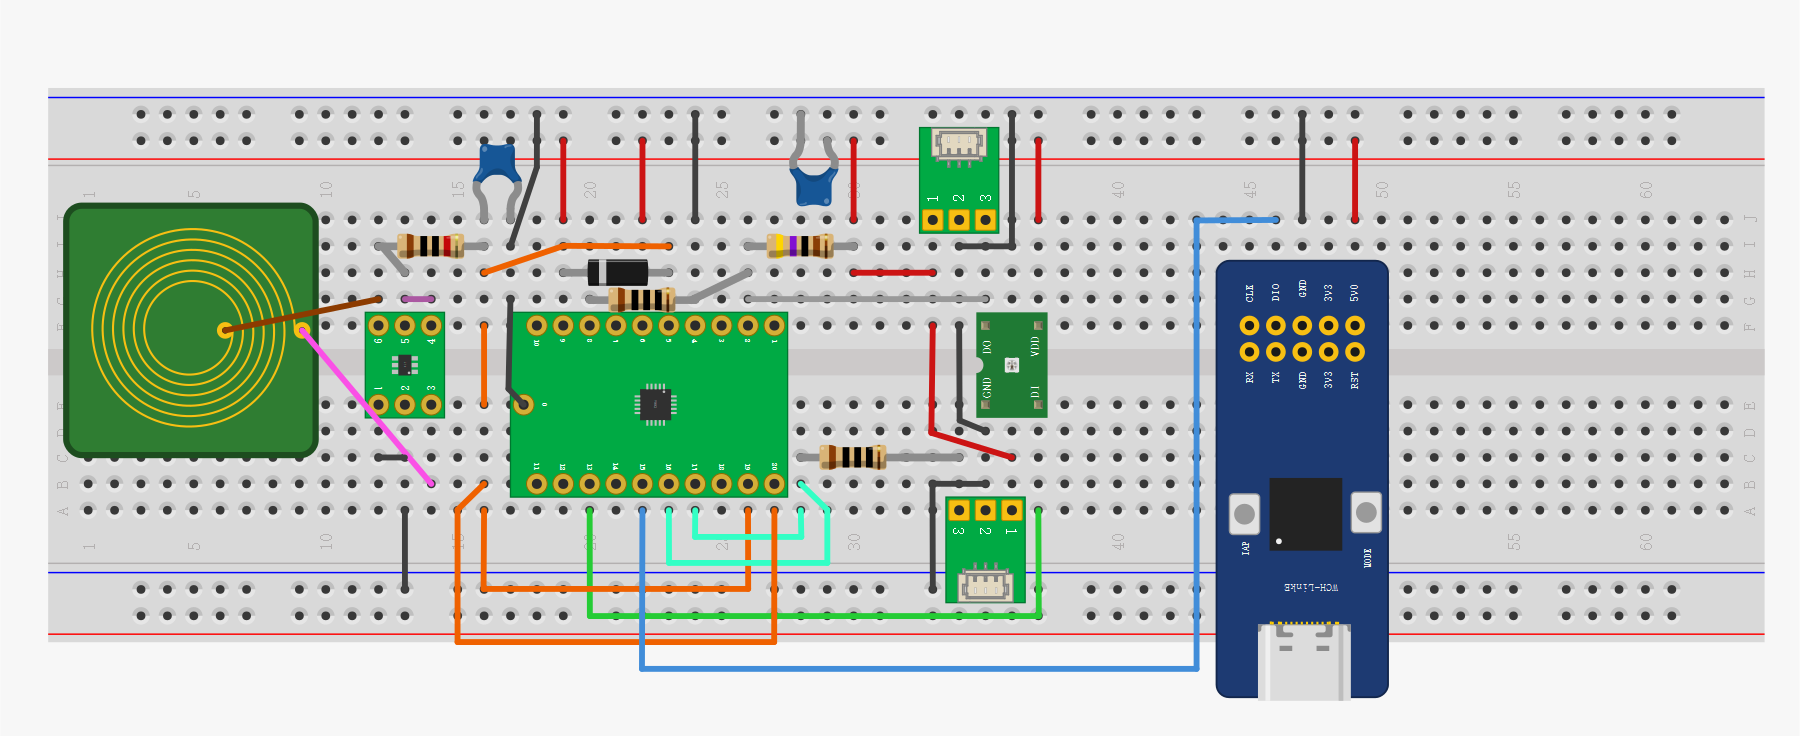
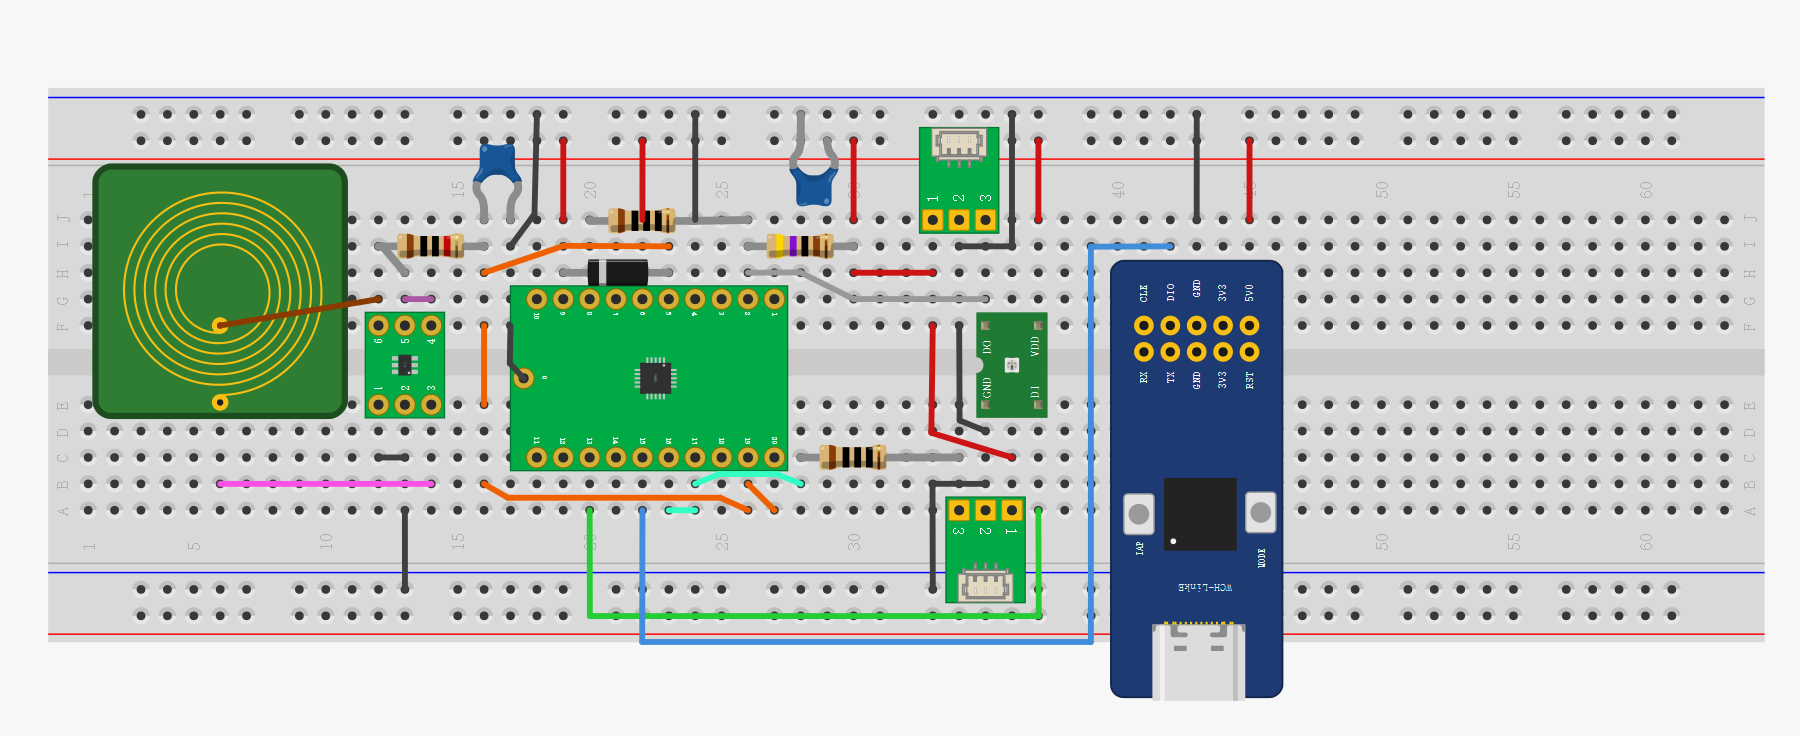
烧录接线图 v95 交付件 = 用户手改版（线圈转 90° 插 pin6E/pin6F）＋清掉两条旧插接
- 交付件 hardware/pixel/pixel-flash-v95.fzz 换成用户手改版的内容
  （草稿 pixel-flash-v95_byHand.fzz 按本仓惯例 *.byHand 不入库，内容就是交付件）：
  线圈转 90° 跨板中缝插在 pin6E / pin6F（E 属 bus6A-E、F 属 bus6F-J，两 bus 不同 ⇒ 不短接），
  内圈焊盘再一根直线接到 pin12G；C1/C2/R1/U1 等跟着重摆，删 9 根 / 加 5 根导线。
- 清理：L1 的 schematicView 还留着 v94 的 pin1E / pin8E 两条旧插接（面包板侧各有一条反向记录），
  而线圈早已搬到第 6 列 ⇒ 删掉这 4 条（<connect> 792 → 788），
  圈线板底下不再压着别人的孔（只剩它自己的 pin6E / pin6F）。
- pixel-flash-v95_bb.svg / .png 由交付件重出；README §67 改写为交付说明。

判据（交付件）：bb_precheck ✓ 允许布线（用孔 57，⑦ 1 处接线 0.000 mm）；
bb_probe ✓ 与项目数据一致（声明 262 条、11/12 张网连通、EXPECT 40/40 只脚）；
导线 47 段；线圈两针与孔 7.62 mm 差 0.22 mm（件本身 7.40 mm，已认可）。

diff --git a/hardware/pixel/README.md b/hardware/pixel/README.md
@@ -8532,7 +8532,7 @@ py -3.13 -X utf8 _work\make_flash.py pixel-pcb-v94.fzz pixel-flash-v94.fzz --app
 py -3.13 -X utf8 F:\git\fritzing-parts-langhua\tools\bb_precheck.py pixel-flash-v94.fzz
 ```
 
-## 六十七、`NFC-Coil` 改件（面包板 = PCB）⇒ **`pixel-flash-v95.fzz`** ✓（2026-11-06 ✓）
+## 六十七、`NFC-Coil` 改件（面包板 = PCB）⇒ **`pixel-flash-v95.fzz`（内容 = 用户手改版）** ✓（2026-11-06 ✓）
 
 ### 为什么要升一版
 
@@ -8541,46 +8541,51 @@ py -3.13 -X utf8 F:\git\fritzing-parts-langhua\tools\bb_precheck.py pixel-flash-
 间距 **7.40 mm**，OD 1.6 / 孔 0.6）。而 v94 里线圈是**插在面包板上**的（老件两针
 **17.78 mm = 7 格**，插在 `pin1E` / `pin8E`）。`.fzz` 里的元件是**随包内嵌**的 ⇒ 必须出一版新图。
 
-### 改了什么
+### 分两步：我出的 v95 → 用户手改版（定稿）
 
-| 项 | v94 | v95 |
+| 步 | 文件 | 线圈怎么接 |
 |---|---|---|
-| 内嵌元件 | 老 `NFC-Coil` | 新 `NFC-Coil`（面包板 ＋ icon）|
-| 线圈与面包板 | 插 `pin1E` / `pin8E` | **不插孔**：两根导线直接接到它的两个焊盘 |
-| `Wire90015711`（`COIL_A`）| 插 `pin1C`，再经 `Wire90015712` / `Wire90015713` 两段折线到 `pin12G` | 改接线圈**内圈焊盘**，**一条直线**直连 `pin12G`（原来那两段折线删掉也合并进来）|
-| `Wire90015714`（`COIL_B`）| 插 `pin8B` | 改接线圈**外圈焊盘** → `pin14B`（一条直线）|
-| 线圈实例位置 | `(6.98, 60.4488)` | `(6.98, 54.60)`（上移 1.65 mm，让 `pin9C` 的结点避开板边）|
+| ① 我出 | `pixel-flash-v95.fzz`（初版）| 线圈**不插孔**，两根线从焊盘接出（内圈→`pin12G`、外圈→`pin14B`，各一条直线）|
+| ② 用户手改 | `pixel-flash-v95_byHand.fzz`（草稿；`*_byHand.fzz` 在 `.gitignore` 里，不入库）| 线圈**转 90° 插在 `pin6E` / `pin6F`**（跨板中缝），内圈焊盘再一根直线接到 `pin12G` |
+| ③ **交付** | **`pixel-flash-v95.fzz`**（= ② 的内容，只把内部 `.fz` 改回 `pixel-flash-v95.fz`）| 同 ② |
 
-★ **线型** ✓（用户 2026-11-06）：线圈两根线都是**一根直线**，不拐弯 ✗ ——
-`COIL_A`：内圈焊盘 `(64.74, 100.66)` → `pin12G` `(117, 90)`；
-`COIL_B`：外圈焊盘 `(90.96, 100.66)` → `pin14B` `(135, 153)`。
-（`COIL_A` 原来是 3 段串起来、中间 2 个 90° 拐弯 ✗；现在并成 1 根 ⇒ 直线上只有 50 段导线）
+★ ② 为什么能插 ✓：`pin6E` 属 `bus6A-E`、`pin6F` 属 `bus6F-J` —— **两条 bus 不同** ⇒ 线圈两端不会短接 ✓；
+两孔相距 **7.62 mm**、件自身两针 **7.40 mm** ⇒ **必有一针偏 0.22 mm**（`bb_precheck` 的 0.60 mm 口径 ✓ 过；
+`render_bb` 的 0.10 mm 自检会报“悬空”，那是它的严格口径 ✗ 不是错）。
 
-★ **为什么不能继续插** ✗：新件两针在板子的**竖直中线**，24 mm 的板从针线上下各铺 12 mm；
-而一条 5 孔 bus 只有 **10.16 mm** 高（实测 `pin1E` → `bus1A-E`、`pin1C` → `bus1A-E`、
-`pin8B` → `bus8A-E`）⇒ **线圈插到哪儿，它那两条 bus 就整条被板子盖住**，`COIL_A` / `COIL_B`
-的线没有孔可插 ✓。
+★ ② 里内圈脚**既插 `pin6F` 又接 `Wire90015711`** ⚠ —— 违反 §5b-8「一个脚只能插孔或接线，二选一」；
+但 `pin6F` 那条 bus（6F…6J）**整条都在圈线板底下**，板外没有空孔可挪 ⇒ 保留这一处
+（当作“线焊在焊盘上”）。
 
-### 判据（都在 `pixel-flash-v95.fzz` 上跑 ✓）
+### 清理（2026-11-06 ✓）
+
+手改版里 `L1` 的 `schematicView` 还留着 **v94 的两条旧插接 `pin1E` / `pin8E`**（面包板上也各有一条反向记录），
+而线圈早已搬到第 6 列 ⇒ 这两颗孔被误标成“线圈占着”，且 `pin8E`(81,126) 正好在圈线板底下。
+已删掉这 4 条（`<connect>` 792 → 788）⇒ **圈线板底下的“已用孔”只剩它自己的 `pin6E` / `pin6F`** ✓。
+
+### 判据（都在交付件 `pixel-flash-v95.fzz` 上跑 ✓）
 
 | 判据 | 结果 |
 |---|---|
-| `bb_precheck` | **✓ 允许布线**（①–⑦ 全 ✓；⑦ 量到 **3 处接线，最大 0.000 mm**）|
-| `bb_probe --nets=pixel_nets.py` | **✓ 与项目数据一致**（**11/12** 张网连通成一片；`EXPECT` 点名 **40/40** 只脚都在图上；声明 266 条）|
-| 导线段数 | **50**（合并前 52）|
-| 线圈板底下压住的**已用孔** | **0 个**（板 rect：x 10.52..95.56 / y 58.14..143.18；全图用孔 95 个）|
+| `bb_precheck` | **✓ 允许布线**（①–⑦ 全 ✓；⑦ 1 处接线 0.000 mm；用孔 **57**）|
+| `bb_probe --nets=pixel_nets.py` | **✓ 与项目数据一致**（**11/12** 张网连通成一片；`EXPECT` **40/40** 只脚；声明 262 条）|
+| 导线 | **47 段** |
+| 线圈板底下压住的**已用孔** | **2 个 = 它自己的 `pin6E` / `pin6F`**（板 rect：x 21.75..103.91 / y 45.96..128.46）|
 
 [![pixel-flash-v95 的面包板视图](pixel-flash-v95_bb.svg)](pixel-flash-v95_bb.svg)
 
-*上图 = `pixel-flash-v95.fzz` 的**面包板视图** ✓ —— 线圈仍摆在左边，两根线从它的两个焊盘接出：
-`COIL_A` 从内圈焊盘一条直线到 `pin12G`（跨过线圈 ✓，那处交叠是**故意的**），`COIL_B` 从外圈焊盘一条直线到 `pin14B` ✓。*
+*上图 = **`pixel-flash-v95.fzz`（用户手改版）** 的面包板视图 ✓ —— 线圈在第 6 列跨中缝插着，
+内圈焊盘一根直线接到 `pin12G`；右侧是 `WCH-LinkE`。*
 
 **复现** ✓：
 
 ```bat
-py -3.13 -X utf8 _work\nfc\make_v95.py
+py -3.13 -X utf8 _work\nfc\make_v95.py          & rem ① 我出的 v95
+py -3.13 -X utf8 _work\nfc\fix_byhand2.py       & rem 清掉手改版里的 pin1E / pin8E 两条旧插接
+py -3.13 -X utf8 _work\nfc\publish_v95.py       & rem 手改版 → 交付件 pixel-flash-v95.fzz
 py -3.13 -X utf8 F:\git\fritzing-parts-langhua\tools\bb_precheck.py pixel-flash-v95.fzz
 py -3.13 -X utf8 F:\git\fritzing-parts-langhua\tools\bb_probe.py pixel-flash-v95.fzz --nets=pixel_nets.py
+py -3.13 F:\git\fritzing-parts-langhua\tools\render_bb.py pixel-flash-v95.fzz pixel-flash-v95_bb.png
 ```
 
 
